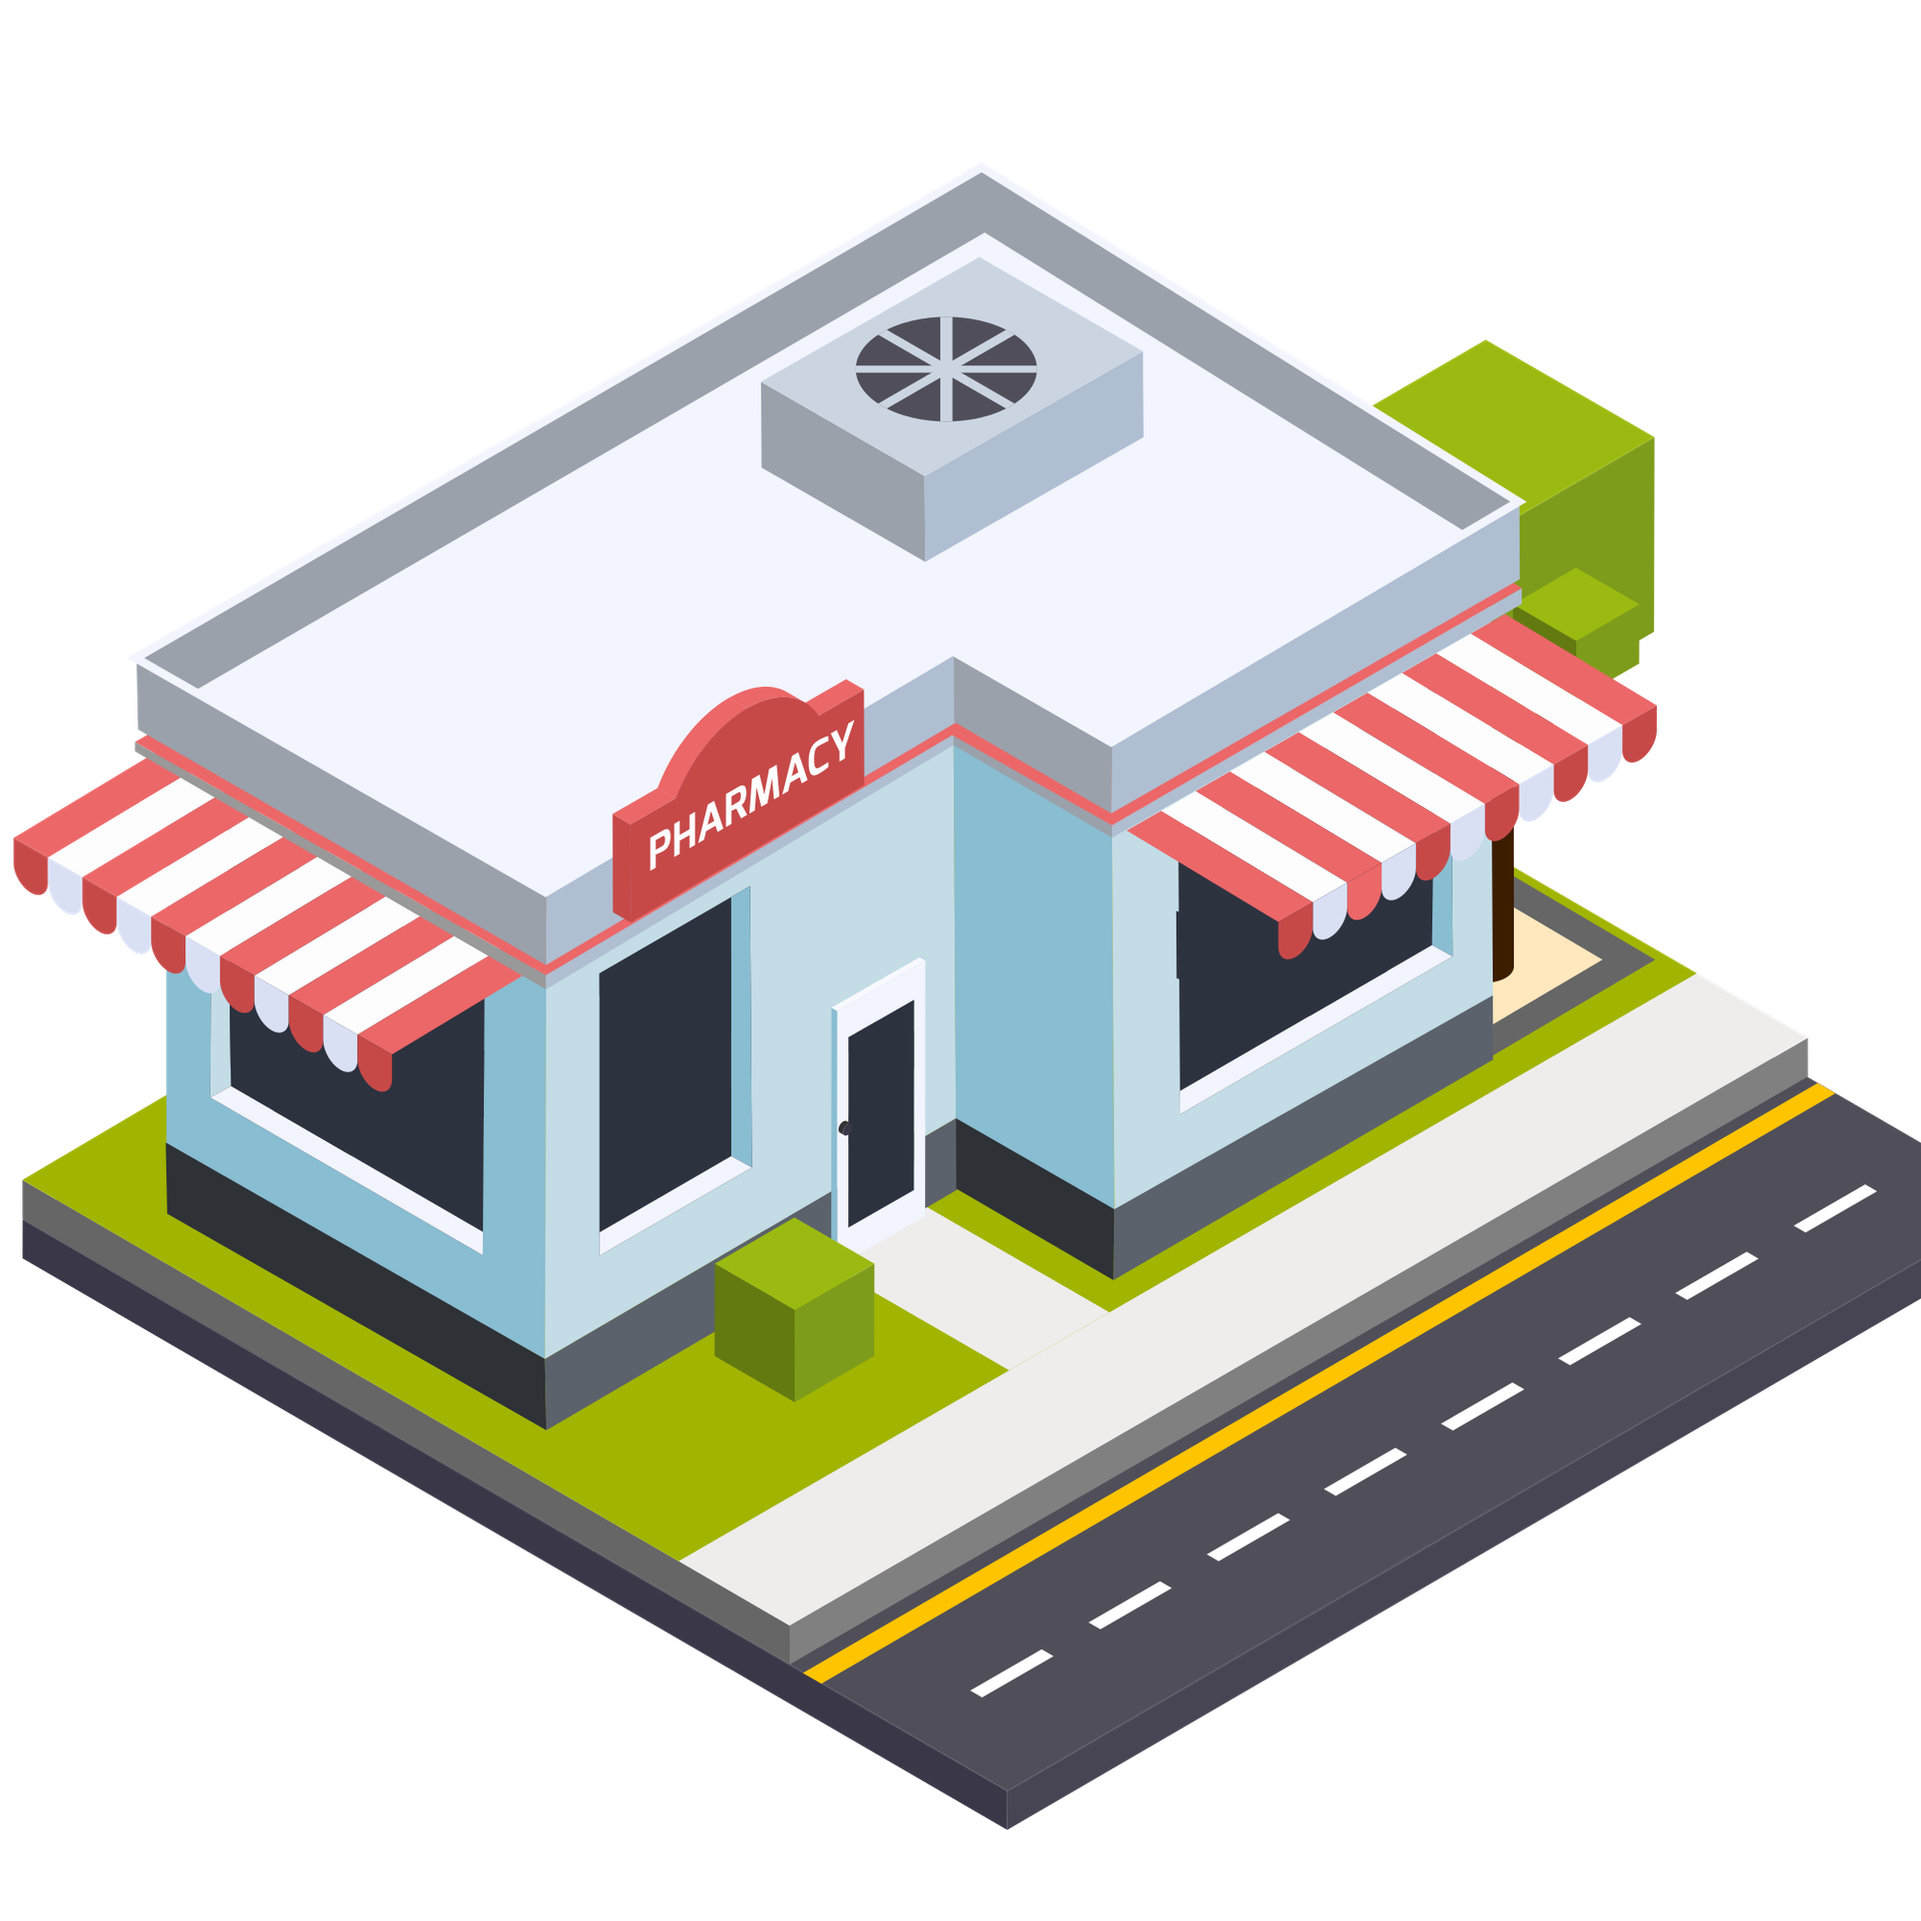
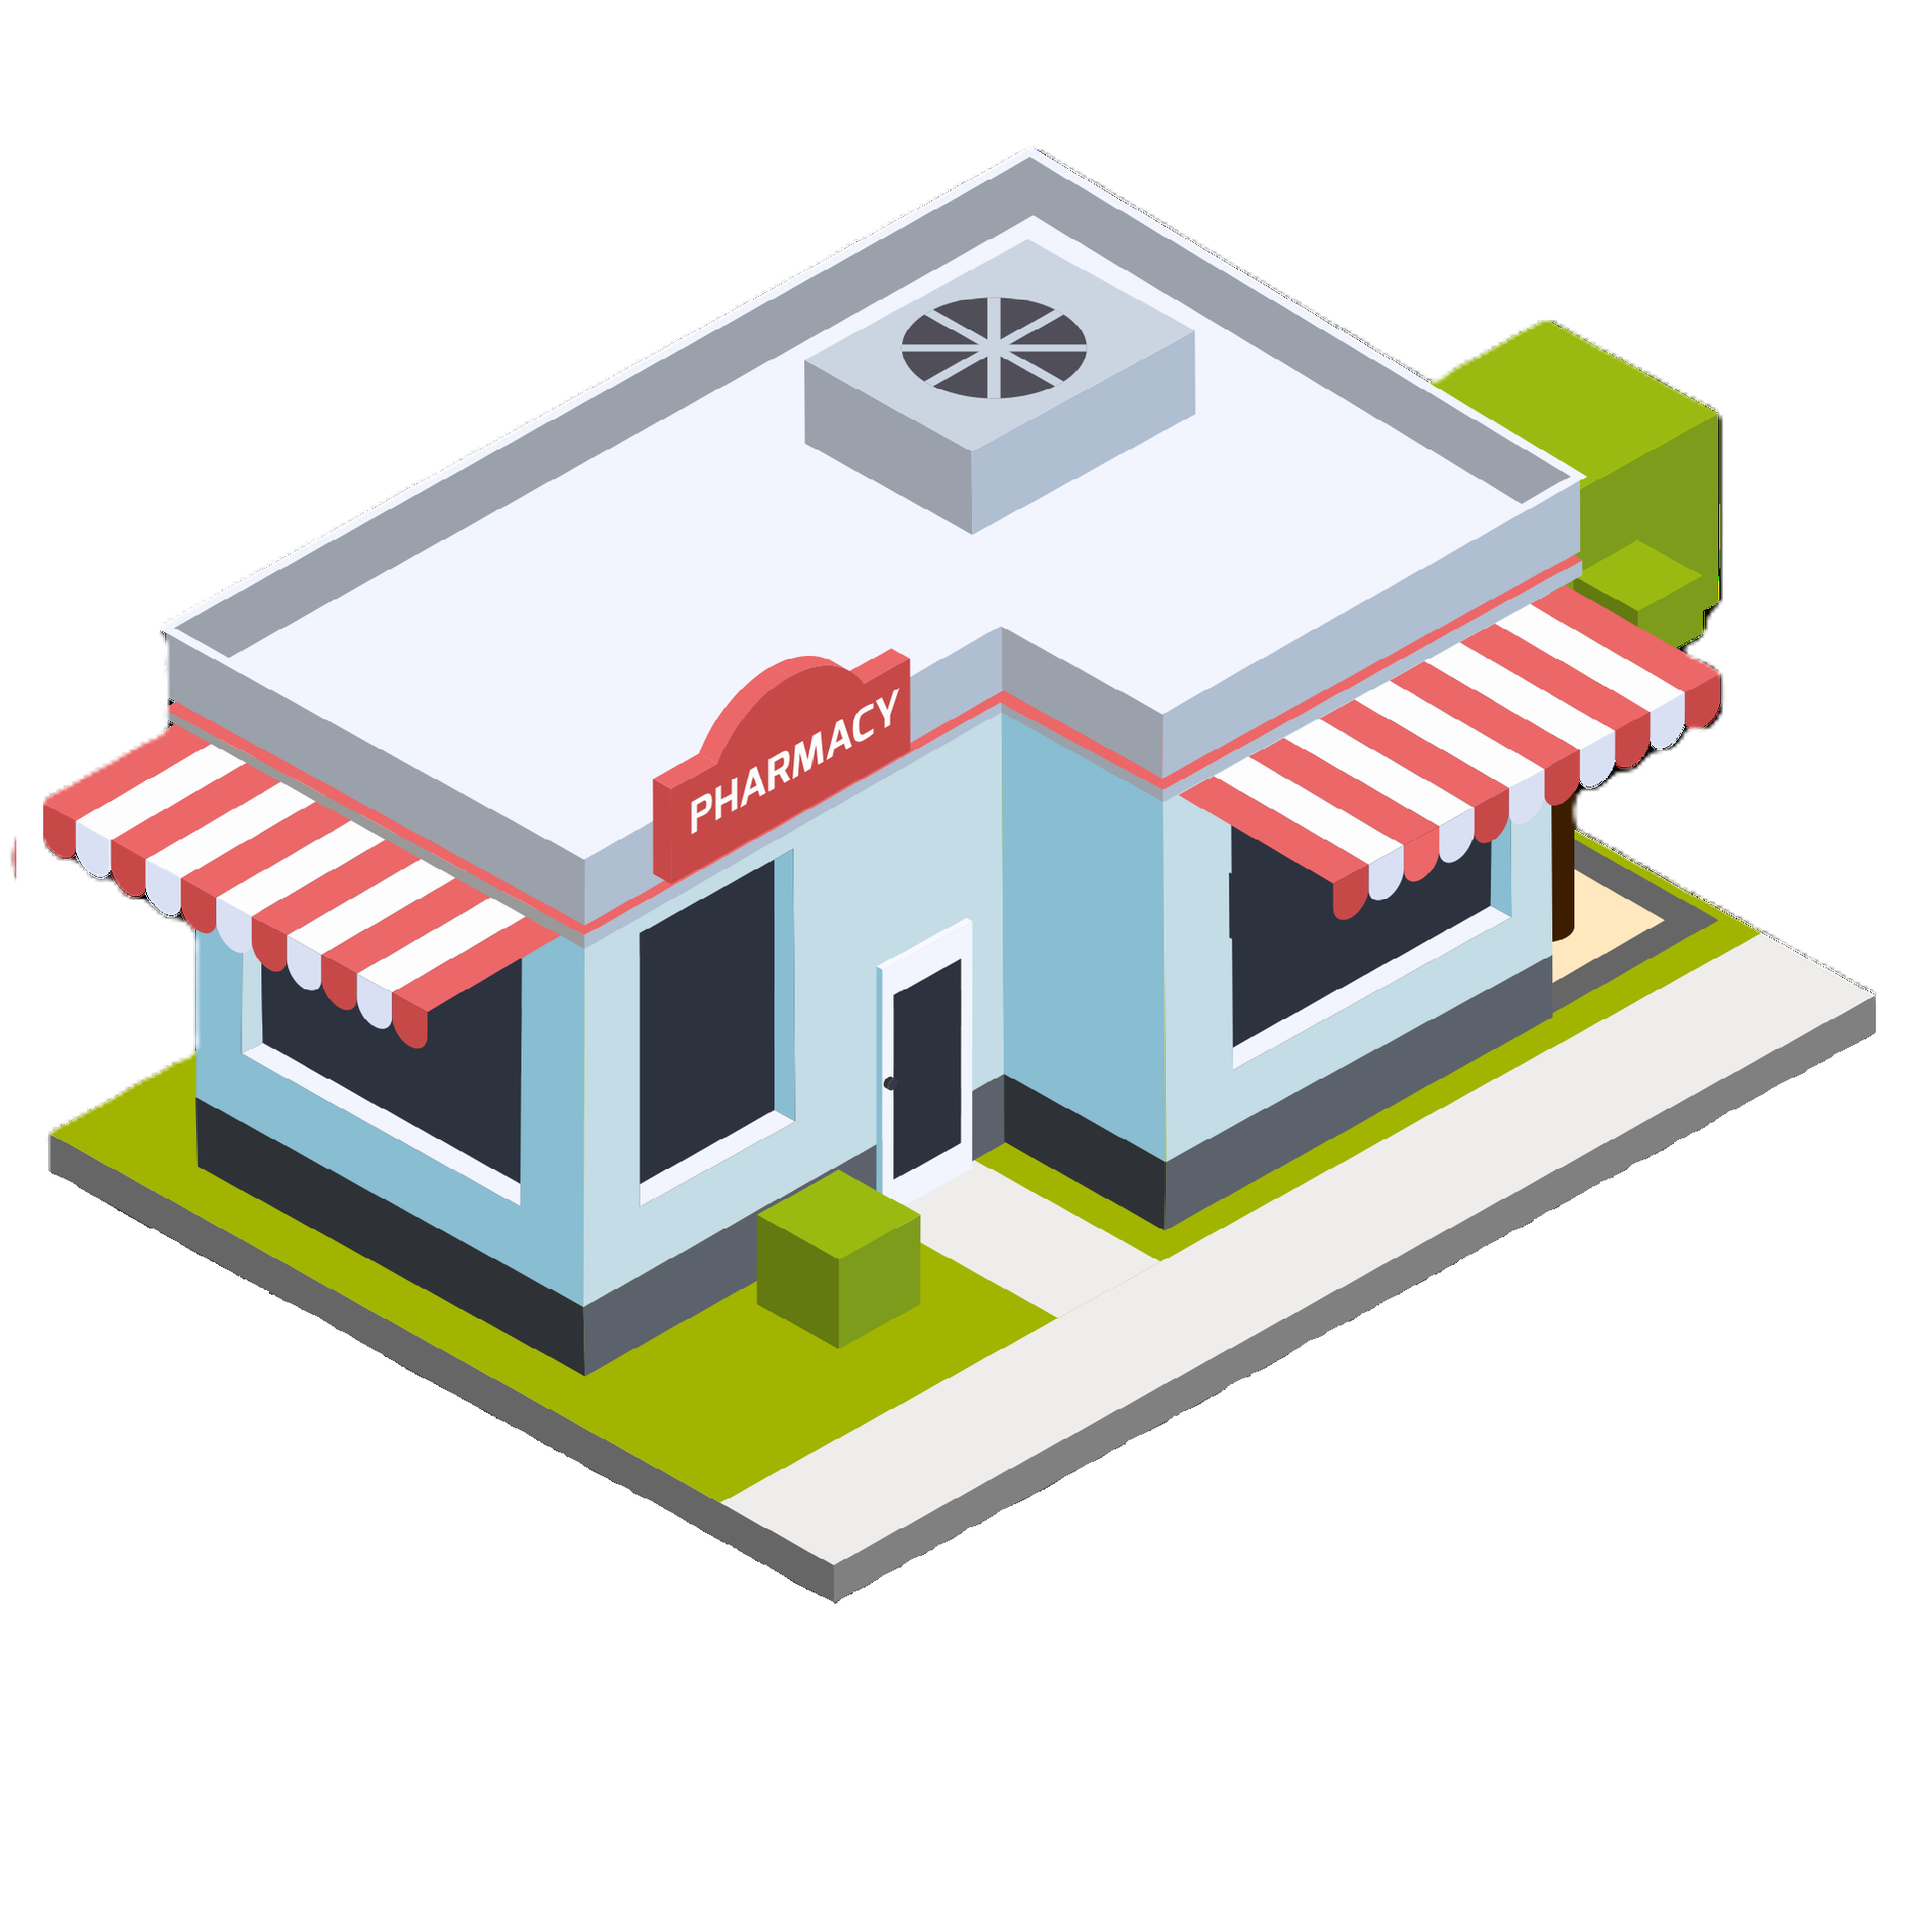
Added a pharmacy.

diff --git a/UniSim/core/src/main/java/io/github/unisim/ui/InfoBar.java b/UniSim/core/src/main/java/io/github/unisim/ui/InfoBar.java
@@ -24,7 +24,7 @@ public class InfoBar {
   private Table infoTable = new Table();
   private Table titleTable = new Table();
   private Table buildingCountersTable = new Table();
-  private Label[] buildingCounterLabels = new Label[4];
+  private Label[] buildingCounterLabels;
   private Skin skin = new Skin(Gdx.files.internal("ui/uiskin.json"));
   //private Label scoreLabel = new Label("86%", skin);
   private Label scoreLabel;
@@ -41,6 +41,7 @@ public class InfoBar {
   private Cell<Image> pauseButtonCell;
   private Cell<Table> buildingCountersTableCell;
   private Cell[] buildingCounterCells;
+  private int buildingTypesCount;
   private World world;
   /**
    * Create a new infoBar and draws its' components onto the provided stage.
@@ -51,10 +52,12 @@ public class InfoBar {
     this.timer = timer;
     this.score = score;
     this.world = world;
-    buildingCounterCells = new Cell[4];
+    buildingTypesCount = 5;
+    buildingCounterLabels = new Label[buildingTypesCount];
+    buildingCounterCells = new Cell[buildingTypesCount];
 
     // Building counter table
-    for (int i = 0; i < 4; i++) {
+    for (int i = 0; i < buildingTypesCount; i++) {
       buildingCounterLabels[i] = new Label("", skin);
     }
     buildingCounterCells[0] = buildingCountersTable.add(buildingCounterLabels[0]);
@@ -62,6 +65,8 @@ public class InfoBar {
     buildingCountersTable.row();
     buildingCounterCells[2] = buildingCountersTable.add(buildingCounterLabels[2]);
     buildingCounterCells[3] = buildingCountersTable.add(buildingCounterLabels[3]);
+    buildingCounterCells[4] = buildingCountersTable.add(buildingCounterLabels[4]);
+
 
     // Info Table
     timerLabel = new Label(timer.getRemainingTime(), skin);
@@ -112,6 +117,8 @@ public class InfoBar {
         + Integer.toString(world.getBuildingCount(BuildingType.HEALTH)));
     buildingCounterLabels[3].setText("Accomm.: "
         + Integer.toString(world.getBuildingCount(BuildingType.ACCOMMODATION)));
+    buildingCounterLabels[4].setText("Food: "
+        + Integer.toString(world.getBuildingCount(BuildingType.FOOD)));
     pauseButtonCell.setActor(GameState.paused ? playImage : pauseImage);
   }
 
@@ -128,7 +135,7 @@ public class InfoBar {
 
     float counterTableWidth = height * 0.27f;
     buildingCountersTableCell.width(counterTableWidth).height(height * 0.05f);
-    for (int i = 0; i < 4; i++) {
+    for (int i = 0; i < buildingTypesCount; i++) {
       buildingCounterLabels[i].setFontScale(height * 0.0015f);
       buildingCounterCells[i].width(counterTableWidth * 0.5f).height(height * 0.025f);
     }

diff --git a/UniSim/core/src/main/java/io/github/unisim/ui/BuildingMenu.java b/UniSim/core/src/main/java/io/github/unisim/ui/BuildingMenu.java
@@ -52,7 +52,7 @@ public class BuildingMenu {
         new Point(),
         new Point(3, 3),
         false,
-        BuildingType.HEALTH,
+        BuildingType.FOOD,
         "Canteen"
     ));
     buildings.add(new Building(
@@ -65,16 +65,16 @@ public class BuildingMenu {
         BuildingType.LEARNING,
         "Library"
     ));
-    buildings.add(new Building(
-        new Texture(Gdx.files.internal("buildings/basketballCourt.png")),
-        0.0025f,
-        new Vector2(1f, -2.4f),
-        new Point(),
-        new Point(6, 9),
-        false,
-        BuildingType.RECREATION,
-        "Basketball Court"
-    ));
+//    buildings.add(new Building(
+//        new Texture(Gdx.files.internal("buildings/basketballCourt.png")),
+//        0.0025f,
+//        new Vector2(1f, -2.4f),
+//        new Point(),
+//        new Point(6, 9),
+//        false,
+//        BuildingType.RECREATION,
+//        "Basketball Court"
+//    ));
     buildings.add(new Building(
         new Texture(Gdx.files.internal("buildings/stadium.png")),
             0.0020f,
@@ -94,6 +94,16 @@ public class BuildingMenu {
         false,
         BuildingType.ACCOMMODATION,
         "Student Accommodation"
+    ));
+    buildings.add(new Building(
+        new Texture(Gdx.files.internal("buildings/pharmacy.png")),
+        0.0018f,
+        new Vector2(1.3f, -0.5f),
+        new Point(),
+        new Point(4,5),
+        false,
+        BuildingType.HEALTH,
+        "Pharmacy"
     ));
 
     table = new Table();

diff --git a/UniSim/core/src/main/java/io/github/unisim/building/BuildingType.java b/UniSim/core/src/main/java/io/github/unisim/building/BuildingType.java
@@ -8,5 +8,6 @@ public enum BuildingType {
   RECREATION,
   LEARNING,
   ACCOMMODATION,
-  HEALTH
+  HEALTH,
+  FOOD
 }
